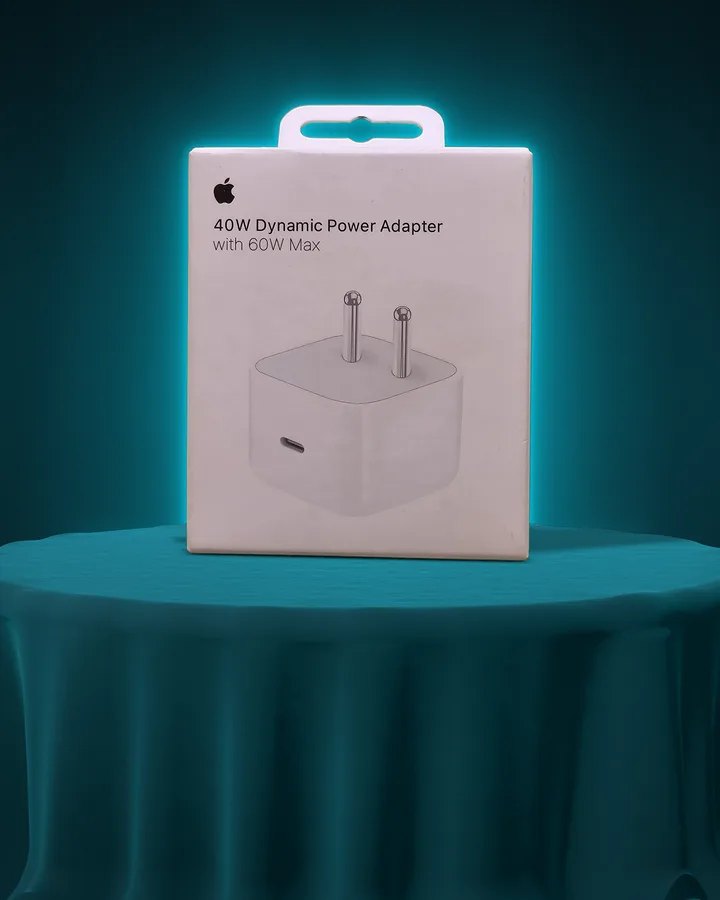
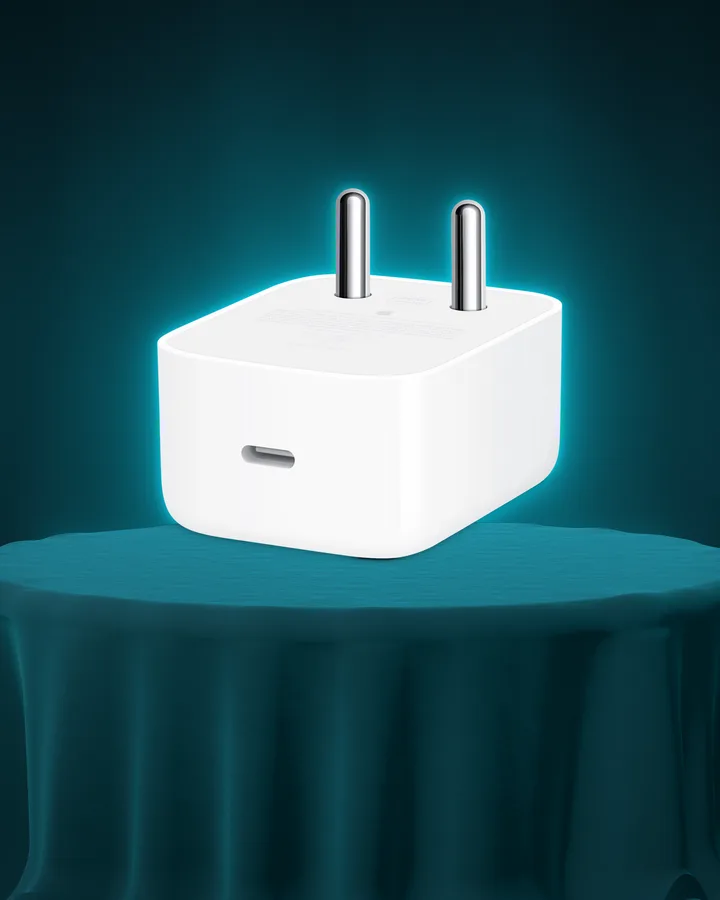
Apple 20W adapter, Apple 60W USB-C cable, Samsung USB-C to USB-C cable; Apple's official photos
- Three listings added at the owner's request, priced by the owner's rule (₹50–100 under the lower of Amazon and Flipkart):
  Apple 20W ₹1,429, Apple 60W cable ₹1,819, Samsung C-to-C ₹279. Publishing waits on the owner's confirmation that they are
  genuine (their boxes have misprints; see catalog-sources/batch-2026-11-17/README.md).
- Apple's official product photos (20W, 40W, 60W cable) and Samsung's (C-to-C cable) lead their galleries on the teal stage,
  followed by the sealed box and the creatives whose box art matches.

Claude-Session: https://claude.ai/code/session_01Ro9QpjYW3rXQemVYygsFQx

Changed region(s): [[0.1833, 0.0622, 0.9472, 0.6533]]

diff --git a/apps/storefront/src/lib/catalog/gadget-additions.ts b/apps/storefront/src/lib/catalog/gadget-additions.ts
@@ -7,12 +7,13 @@
  * is set below Honeywell's own ₹439. Specs are the brands' own published figures or the box print.
  *
  * PHOTOS: the shop's own photos cut off the green backdrop and placed on the teal stage, the brands' official product images
- * (boAt, Samsung, Ant Esports), and only those of the owner's creatives whose box art matches the real box. Creatives with
+ * (boAt, Samsung, Ant Esports, Apple), and only those of the owner's creatives whose box art matches the real box. Creatives with
  * altered box text (Aavante 2.0 150 #1–3, Aavante Bar 490, KM1410, Samsung 45W, Samsung 25W #2–3) are not used.
  *
  * `original` is not set on any of these until the owner confirms they came from the brand or its authorised distributor.
- * Held back until the owner confirms they are genuine (catalog-sources/batch-2026-11-17/README.md): Apple 20W adapter,
- * Apple 60W cable, Samsung USB-C to USB-C cable; and the unidentified boAt speaker.
+ * Apple 20W, Apple 60W cable and Samsung USB-C to USB-C cable: added at the owner's request (17 Nov) after their boxes' misprints
+ * were pointed out; publishing waits on the owner's confirmation that they came from an authorised distributor.
+ * Still held: the unidentified boAt speaker.
  */
 
 import type { GadgetEntry } from './gadgets';
@@ -110,7 +111,7 @@ export const CHARGING: readonly GadgetEntry[] = [
     warrantyMonths: 12,
     ports: ['usb-c'],
     fastFor: ['Apple'],
-    photos: { id: 'apple-40w-dynamic-adapter', gallery: ['Sealed box', '40 W with 60 W max', 'USB-C connection'] },
+    photos: { id: 'apple-40w-dynamic-adapter', gallery: ['Adapter', 'Sealed box', 'Plug side', '40 W with 60 W max', 'USB-C connection'] },
   },
   {
     id: 'samsung-25w-adapter',
@@ -192,6 +193,89 @@ export const CHARGING: readonly GadgetEntry[] = [
     phoneEnd: 'usb-c',
     hostEnd: 'usb-a',
     photos: { id: 'samsung-cable-a-c-white', gallery: ['Sealed box', 'USB-A to USB-C', '1.5 metre length'] },
+  },
+  {
+    id: 'apple-20w-adapter',
+    handle: 'apple-20w-usb-c-power-adapter',
+    title: 'Apple 20W USB-C Power Adapter',
+    type: 'charger',
+    priceInr: 1429,
+    regularInr: 1900,
+    short: '20 W USB-C fast charging, cable sold separately',
+    description:
+      'Apple’s 20 W USB-C wall adapter. It fast-charges an iPhone (iPhone 8 and later) over a USB-C cable, and also charges iPad, AirPods and Apple Watch. The box holds the adapter only: pair it with a USB-C cable, or a USB-C to Lightning cable for older iPhones.',
+    features: ['20 W USB-C fast charging', 'For iPhone, iPad and AirPods', 'One USB-C port'],
+    specs: [
+      { label: 'Output', value: '20 W, USB-C Power Delivery' },
+      { label: 'Port', value: '1 × USB-C' },
+      { label: 'Works with', value: 'iPhone 8 and later, iPad, AirPods, Apple Watch' },
+      { label: 'Cable included', value: 'No' },
+      { label: 'Part number', value: 'MHJD3HN/A' },
+      { label: 'Warranty', value: '1 year from Apple, with our GST invoice' },
+    ],
+    inBox: 'Power adapter. No cable in the box.',
+    optionKind: 'colour',
+    options: [{ slug: 'white', name: 'White', hex: '#f4f4f2' }],
+    warrantyMonths: 12,
+    ports: ['usb-c'],
+    fastFor: ['Apple'],
+    photos: { id: 'apple-20w-adapter', gallery: ['Adapter', 'Sealed box', 'USB-C port', '20 W power adapter'] },
+  },
+  {
+    id: 'apple-60w-usb-c-cable',
+    handle: 'apple-60w-usb-c-charge-cable-1m',
+    title: 'Apple 60W USB-C Charge Cable (1 m)',
+    type: 'cable',
+    priceInr: 1819,
+    regularInr: 1900,
+    short: 'USB-C to USB-C, woven, up to 60 W, 1 m',
+    description:
+      'Apple’s woven USB-C to USB-C cable, 1 m long and rated for up to 60 W. Use it to charge an iPhone 15 or later, iPad, AirPods or MacBook Air from a USB-C adapter, and to sync at USB 2 speed.',
+    features: ['USB-C to USB-C, 1 m', 'Up to 60 W charging', 'Woven design'],
+    specs: [
+      { label: 'Connectors', value: 'USB-C to USB-C' },
+      { label: 'Length', value: '1 m' },
+      { label: 'Charging', value: 'Up to 60 W' },
+      { label: 'Data', value: 'USB 2 speed' },
+      { label: 'Part number', value: 'MW493ZM/A' },
+      { label: 'Warranty', value: '1 year from Apple, with our GST invoice' },
+    ],
+    inBox: 'Cable.',
+    optionKind: 'length',
+    options: [{ slug: '1m', name: '1 m', hex: '#f4f4f2' }],
+    warrantyMonths: 12,
+    phoneEnd: 'usb-c',
+    hostEnd: 'usb-c',
+    fastFor: ['Apple'],
+    photos: { id: 'apple-60w-usb-c-cable', gallery: ['Woven cable', 'Sealed box', 'USB-C at both ends', '60 W charging cable', '1 metre length'] },
+  },
+  {
+    id: 'samsung-cable-c-c-black',
+    handle: 'samsung-usb-c-to-usb-c-cable-1m-black',
+    title: 'Samsung USB-C to USB-C cable, 1 m (black)',
+    type: 'cable',
+    priceInr: 279,
+    regularInr: 599,
+    short: 'USB-C to USB-C, 3 A, 1 m',
+    description:
+      'Samsung’s USB-C to USB-C cable in black, 1 m long and rated for up to 3 A. Pair it with a Samsung 25W adapter for Super Fast Charging, or use it to charge any USB-C phone or earbuds and move files at USB 2.0 speed.',
+    features: ['USB-C to USB-C, 1 m', 'Up to 3 A', 'Charging and data'],
+    specs: [
+      { label: 'Connectors', value: 'USB-C to USB-C' },
+      { label: 'Length', value: '1 m' },
+      { label: 'Current', value: 'Up to 3 A' },
+      { label: 'Data', value: 'USB 2.0' },
+      { label: 'Part number', value: 'EP-DA705BBEGIN' },
+      { label: 'Warranty', value: SAMSUNG_ACCESSORY },
+    ],
+    inBox: 'Cable and leaflet.',
+    optionKind: 'length',
+    options: [{ slug: '1m', name: '1 m', hex: '#1c1c1e' }],
+    warrantyMonths: 6,
+    phoneEnd: 'usb-c',
+    hostEnd: 'usb-c',
+    fastFor: ['Samsung'],
+    photos: { id: 'samsung-cable-c-c-black', gallery: ['Cable', 'Sealed box', 'USB-C at both ends', '1 metre length'] },
   },
 ];
 

diff --git a/catalog-sources/batch-2026-11-17/README.md b/catalog-sources/batch-2026-11-17/README.md
@@ -69,13 +69,15 @@ Prices waiting for the two cables below, by the same rule:
 
 ## Held back, for the owner
 
-- **Apple 20W adapter:** the box prints "Veiulle recycler cette boite" (Apple prints "Veuillez recycler cette boîte") and
-  carries no Indian MRP or importer sticker.
-- **Apple 60W cable:** the sticker reads "REIATED".
-- **Samsung USB-C to USB-C cable EP-DA705BBEGIN:** misprints ("Câble UsB", "Samsung'senvironmental", "e.9. REACH"), and the
-  same serial number on all three barcode labels.
-- **Before these are listed,** confirm they come from Apple's or Samsung's authorised distributor (invoice). Misprinted boxes
-  are a common sign of copies.
+- **Apple 20W adapter, Apple 60W cable and Samsung USB-C to USB-C cable:** added on the owner's request (17 Nov) at ₹1,429,
+  ₹1,819 and ₹279, after these box misprints were pointed out. They go live only with the owner's confirmation that the stock
+  came from an authorised distributor.
+  - Apple 20W: the box prints "Veiulle recycler cette boite" (Apple prints "Veuillez recycler cette boîte") and has no Indian
+    MRP sticker.
+  - Apple 60W cable: its sticker reads "REIATED".
+  - Samsung C-to-C: "Câble UsB", "e.9. REACH", and one serial number on all three labels.
+  - Photos: Apple's official images (store.storeimages.cdn-apple.com: MUVR3, MGTT4, MQKJ3) and Samsung's (EP-DA705), on the
+    teal stage.
 - **boAt portable speaker:** model not identified. Send the label on its base or its box.
 - **Samsung 45W:** its serial sticker says Made in Vietnam while the MRP label says Made in India; listed, worth a look.
 - **"Original" badge:** not set on any product in this batch until the source is confirmed.
